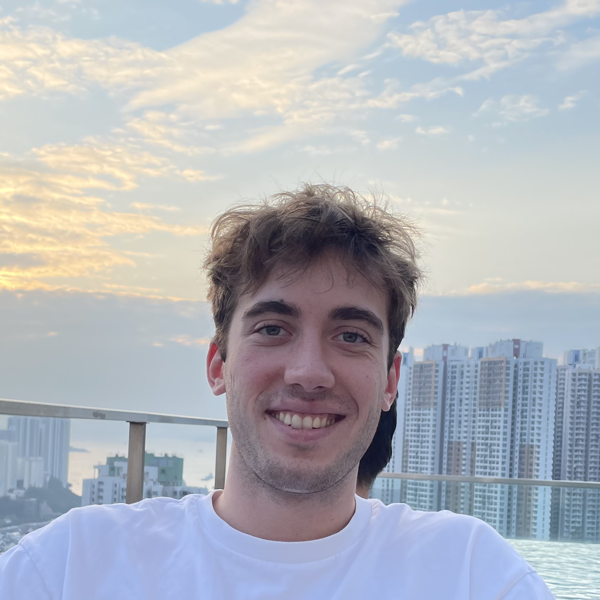
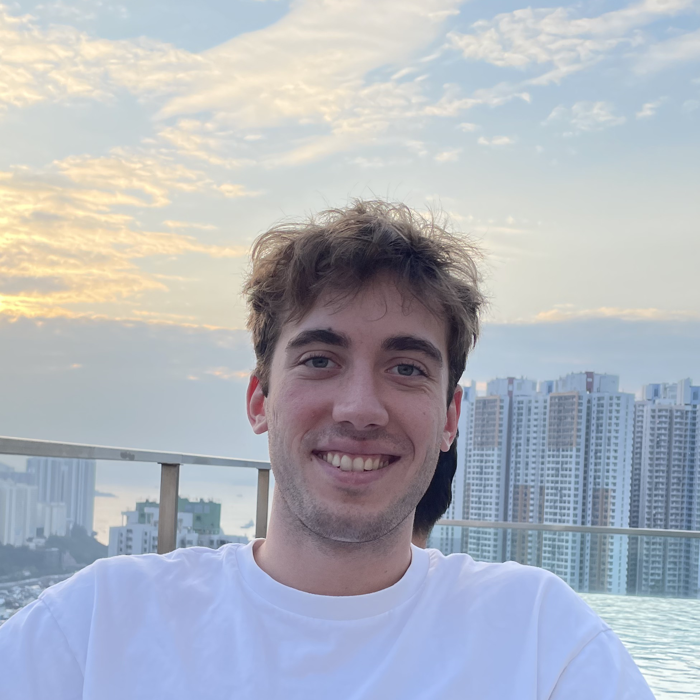
Refine homepage focus and simplify sections

diff --git a/_includes/head/custom.html b/_includes/head/custom.html
@@ -2,7 +2,7 @@
 
 <style>
 /* Google Fonts */
-@import url('https://fonts.googleapis.com/css2?family=IBM+Plex+Sans:wght@400;500;600&display=swap');
+@import url('https://fonts.googleapis.com/css2?family=IBM+Plex+Sans:wght@400;500;600&family=Manrope:wght@500;600&display=swap');
 
 /* Color palette */
 :root {
@@ -2583,6 +2583,34 @@ ul.edu-courses li {
   .home-main .profile-section {
     display: none;
   }
+}
+
+/* Geometric display type and profile crop refinement */
+.profile-name,
+.page__content .sidebar-name,
+.page__content h2,
+.research-section h2 {
+  font-family: 'Manrope', 'IBM Plex Sans', -apple-system, BlinkMacSystemFont, sans-serif;
+}
+
+.profile-name,
+.page__content .sidebar-name {
+  font-weight: 500;
+}
+
+.profile-image,
+.profile-sidebar .profile-image {
+  overflow: hidden;
+  border: 1px solid var(--line);
+}
+
+.profile-image img,
+.profile-sidebar .profile-image img {
+  width: calc(100% + 4px);
+  height: calc(100% + 4px);
+  margin: -6px 0 0 -2px;
+  border: 0;
+  object-fit: cover;
 }
 </style>
 

diff --git a/_pages/about.md b/_pages/about.md
@@ -26,9 +26,13 @@ comments: false
 <header class="profile-section">
   <div class="profile-copy">
     <h1 class="profile-name">Tim Lukas Adam</h1>
-    <p class="profile-lede">I recently completed a BSc in Software Engineering at the University of Southern Denmark and will begin the MSc in Autonomous Systems at DTU in September 2026. I currently collaborate on applied AI research at the SDU Data &amp; Intelligence Lab. My interests include practical and observable AI, language models, agentic systems, and intelligent systems for infrastructure and energy.</p>
+    <p class="profile-lede">I recently completed a BSc in Software Engineering at the University of Southern Denmark and will begin the MSc in Autonomous Systems at DTU in September 2026. I currently work as a research collaborator at the SDU Data &amp; Intelligence Lab, contributing to applied AI research from problem formulation and implementation to evaluation and scientific writing. My work so far has centered on language models, agentic systems, trustworthy AI, and intelligent systems for energy and infrastructure.</p>
   </div>
 </header>
+
+## Interests &amp; Focus
+
+<p class="focus-copy">As I move into autonomous systems, I am broadening this foundation toward AI that can perceive, decide, and act in dynamic environments. I am especially interested in deep learning, computer vision and machine perception, reinforcement learning, and embodied AI—and in connecting these areas with the reasoning and agentic approaches I already work with. Questions around learning under uncertainty, visual understanding, sequential decision-making, robot learning, and the integration of learned policies with planning and control are particularly compelling to me. More broadly, I enjoy building intelligent systems at the boundary between research and real-world application, where reliable perception and decisions matter.</p>
 
 ## Research
 
@@ -120,41 +124,12 @@ comments: false
 
 </div>
 
-## Experience
-
 <style>
   .paper-item::before,
   .project-item::before {
     content: none;
   }
 </style>
-
-<div class="experience-list">
-  <div class="experience-item">
-    <div>
-      <h3>Research Collaborator</h3>
-      <p>SDU Data &amp; Intelligence Lab · Sønderborg, Denmark</p>
-    </div>
-    <span>2026 — Present</span>
-    <p>Applied AI and machine-learning research spanning problem formulation, experimental design, implementation, analysis, and writing.</p>
-  </div>
-  <div class="experience-item">
-    <div>
-      <h3>Student Ambassador</h3>
-      <p>University of Southern Denmark · Sønderborg, Denmark</p>
-    </div>
-    <span>2024 — 2026</span>
-    <p>Represented SDU at national and international education fairs and communicated the student experience to prospective students.</p>
-  </div>
-  <div class="experience-item">
-    <div>
-      <h3>Student Assistant, IT Service</h3>
-      <p>University of Southern Denmark · Sønderborg, Denmark</p>
-    </div>
-    <span>2024 — 2025</span>
-    <p>Supported students and staff with day-to-day IT service requests and technical issues.</p>
-  </div>
-</div>
 
 ## Selected Projects
 
@@ -174,60 +149,6 @@ comments: false
     <p class="project-meta">HKUST · Fall 2025</p>
     <p class="project-desc">Analysed smart-card transportation data using queueing models and machine learning to identify travel patterns and factors affecting waiting and transfer times.</p>
   </div>
-</div>
-
-## Education
-
-<div class="education-timeline">
-
-  <div class="edu-item">
-    <div class="edu-marker"><div class="edu-dot"></div><div class="edu-line"></div></div>
-    <div class="edu-content">
-      <h3 class="edu-title">MSc Autonomous Systems</h3>
-      <div class="edu-meta">
-        <span class="edu-date">2026 — Present</span>
-      </div>
-      <p class="edu-venue">Technical University of Denmark (DTU)</p>
-      <p class="edu-desc">Incoming September 2026.</p>
-    </div>
-  </div>
-
-  <div class="edu-item">
-    <div class="edu-marker"><div class="edu-dot"></div><div class="edu-line"></div></div>
-    <div class="edu-content">
-      <h3 class="edu-title">BSc in Engineering, Software Engineering</h3>
-      <div class="edu-meta">
-        <span class="edu-date">2023 — 2026</span>
-      </div>
-      <p class="edu-venue">University of Southern Denmark, Sonderborg</p>
-      <p class="edu-desc">Graduated June 2026. Project-oriented programme with semester projects developed around real company cases and data; bachelor thesis completed in cooperation with Danfoss.</p>
-    </div>
-  </div>
-
-  <div class="edu-item">
-    <div class="edu-marker"><div class="edu-dot"></div><div class="edu-line"></div></div>
-    <div class="edu-content">
-      <h3 class="edu-title">Exchange Semester</h3>
-      <div class="edu-meta">
-        <span class="edu-date">Fall 2025</span>
-      </div>
-      <p class="edu-venue">Hong Kong University of Science and Technology (HKUST)</p>
-      <p class="edu-desc">Machine Learning; Large Language Models; Data Analysis for Smart Transportation Systems.</p>
-    </div>
-  </div>
-
-  <div class="edu-item">
-    <div class="edu-marker"><div class="edu-dot"></div><div class="edu-line"></div></div>
-    <div class="edu-content">
-      <h3 class="edu-title">German Abitur — High School Diploma</h3>
-      <div class="edu-meta">
-        <span class="edu-date">2022</span>
-      </div>
-      <p class="edu-venue">Gymnasium Kaiser-Friedrich-Ufer · Hamburg, Germany</p>
-      <p class="edu-desc">Final grade: 1.5.</p>
-    </div>
-  </div>
-
 </div>
 
 </main>
